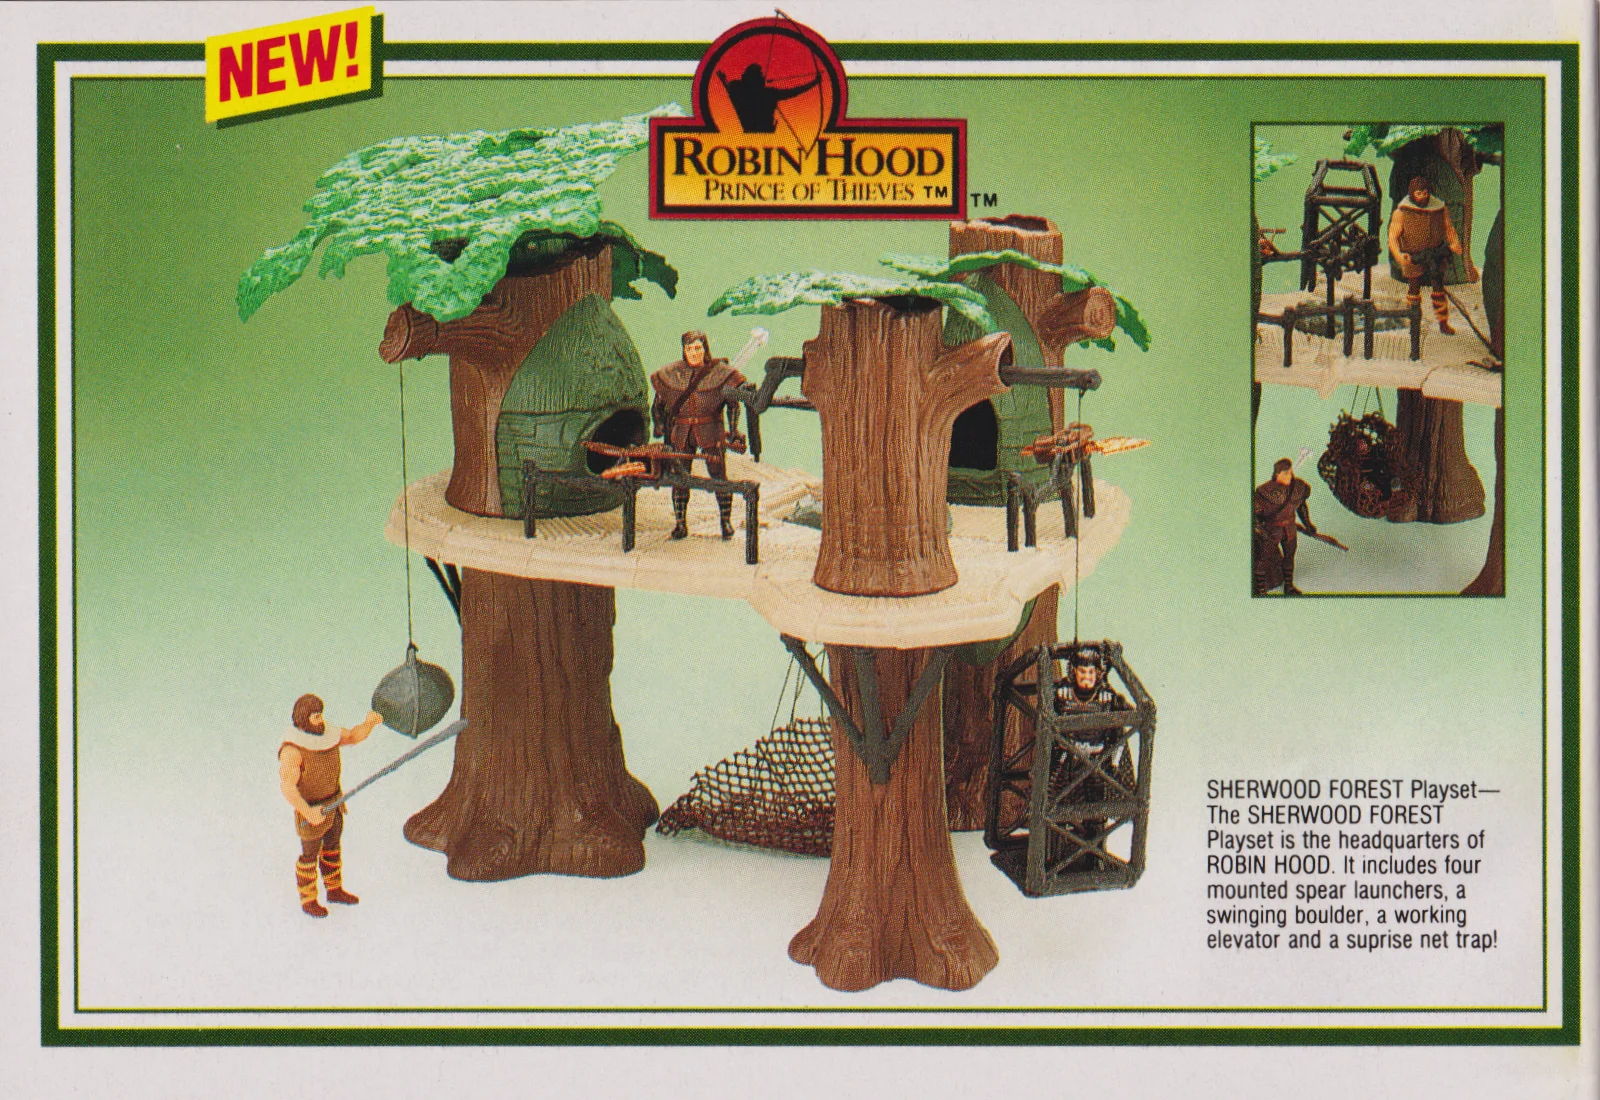
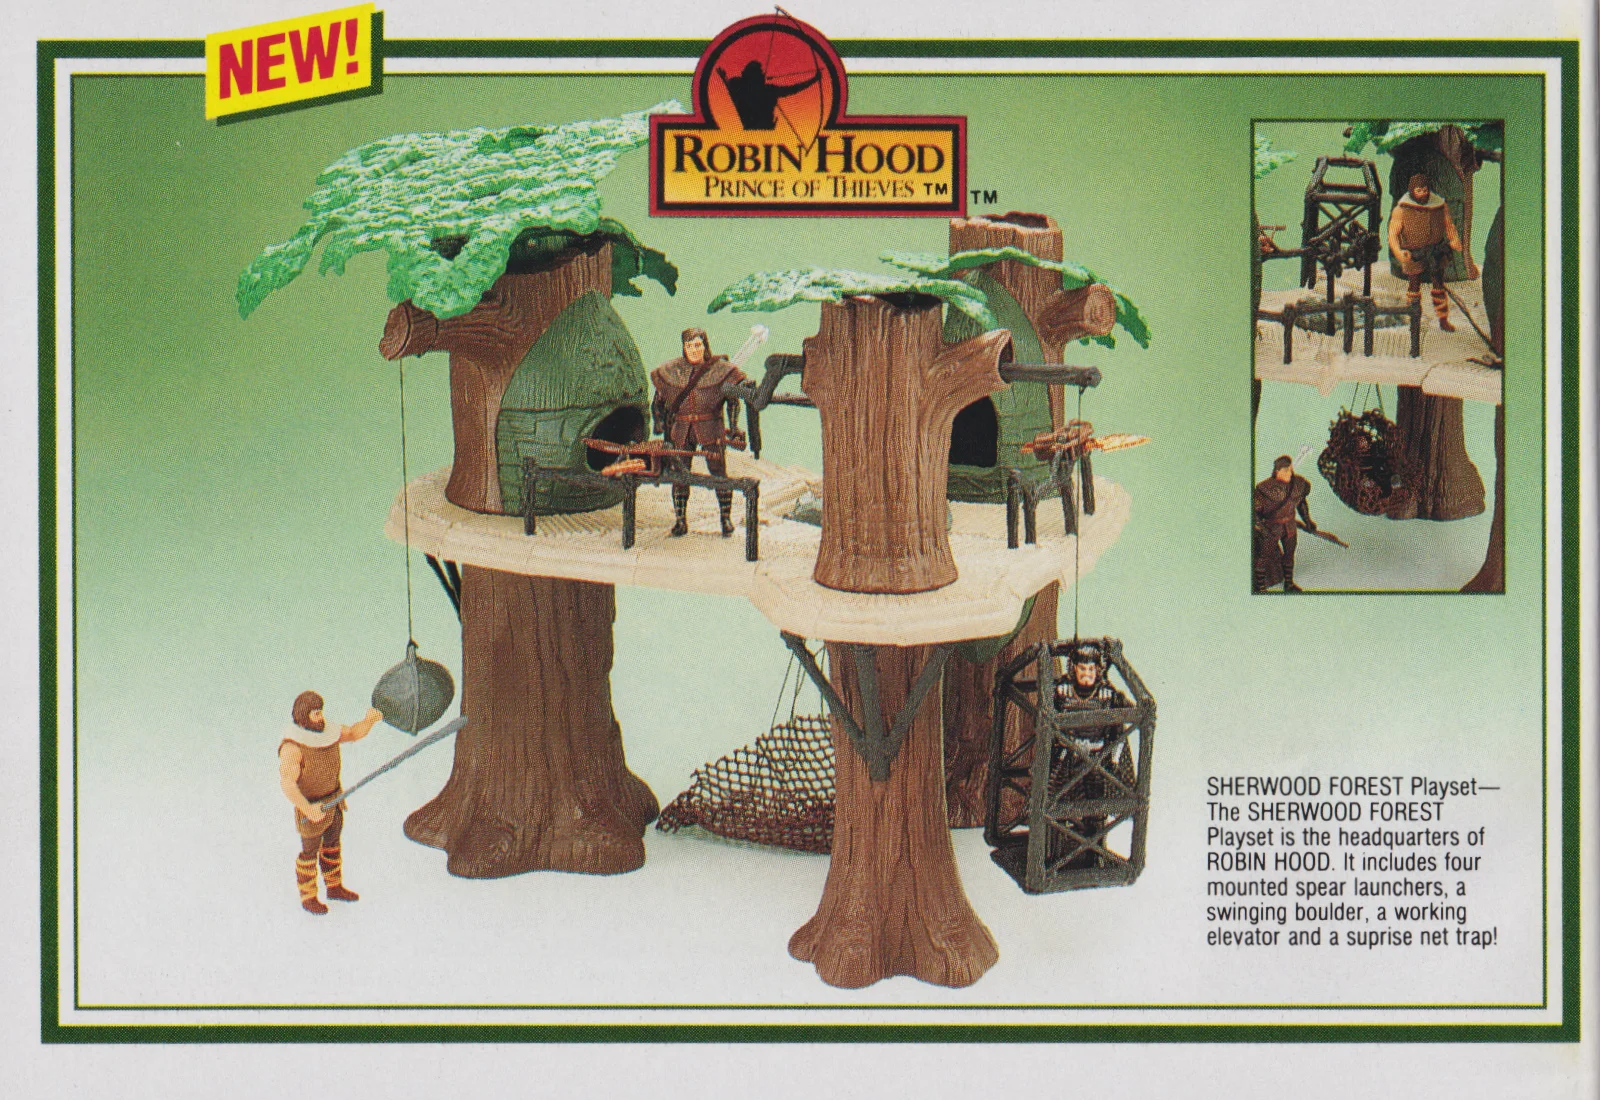
add additional border

diff --git a/app/[id]/[page]/page.tsx b/app/[id]/[page]/page.tsx
@@ -33,14 +33,16 @@ const Page = async ({ params }: PageProps) => {
     <main className="w-full">
       <div className="flex flex-col lg:flex-row pb-8">
         <div className="w-full lg:w-8/12 lg:pr-8">
-          <Image
-            src={`/images/${catalogYear}.${catalogNumber}/${page}.webp`}
-            alt="Sample Toy Image"
-            width={1600}
-            height={1100}
-            unoptimized
-            className="border-white border-8 lg:border-12 shadow-2xl"
-          />
+          <div className="border-white border-8 lg:border-12 shadow-2xl">
+            <Image
+              src={`/images/${catalogYear}.${catalogNumber}/${page}.webp`}
+              alt="Sample Toy Image"
+              width={1600}
+              height={1100}
+              unoptimized
+              className="border-gray-700 border-2"
+            />
+          </div>
           <Pagination />
         </div>
         <div className="w-full lg:w-4/12">
@@ -71,16 +73,20 @@ const Page = async ({ params }: PageProps) => {
       <div className="grid grid-cols-3 md:grid-cols-4 lg:grid-cols-8 gap-8 text-center">
         {catalog?.pages.map((p, index) => (
           <Link key={index} href={`/${id}/${p.fileName}`}>
-            <Image
-              key={index}
-              src={`/images/${catalogYear}.${catalogNumber}/${p.fileName}.webp`}
-              alt="Sample Toy Image"
-              width={200}
-              height={138}
-              className={`w-full h-auto border-4 shadow-2xl" ${
+            <div
+              className={`w-full h-auto border-8 shadow-2xl" ${
                 p.fileName === page ? "border-amber-300" : "border-white"
               }`}
-            />
+            >
+              <Image
+                key={index}
+                src={`/images/${catalogYear}.${catalogNumber}/${p.fileName}.webp`}
+                alt="Sample Toy Image"
+                width={200}
+                height={138}
+                className="border-gray-700 border-2"
+              />
+            </div>
             <Badge>{p.fileName}</Badge>
           </Link>
         ))}
